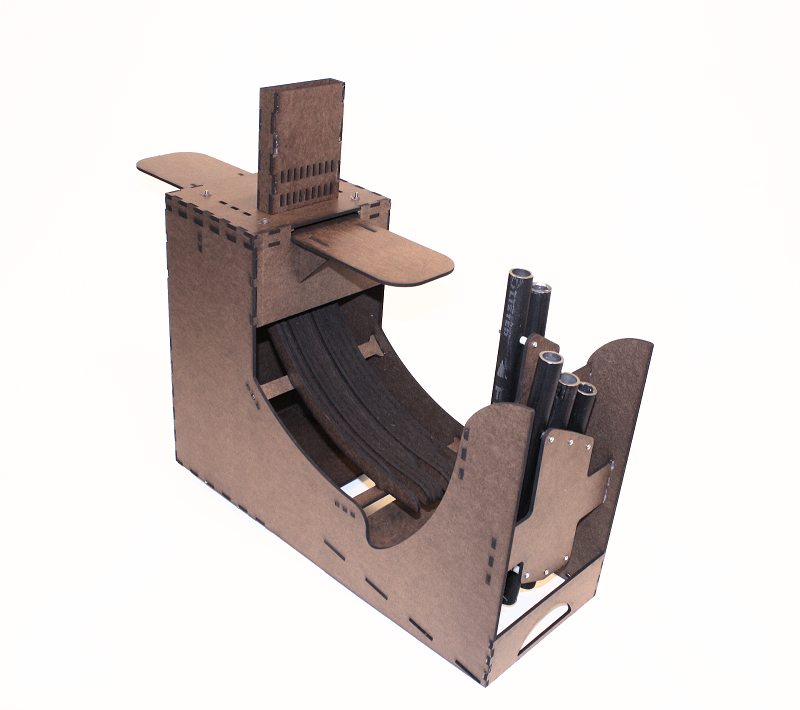
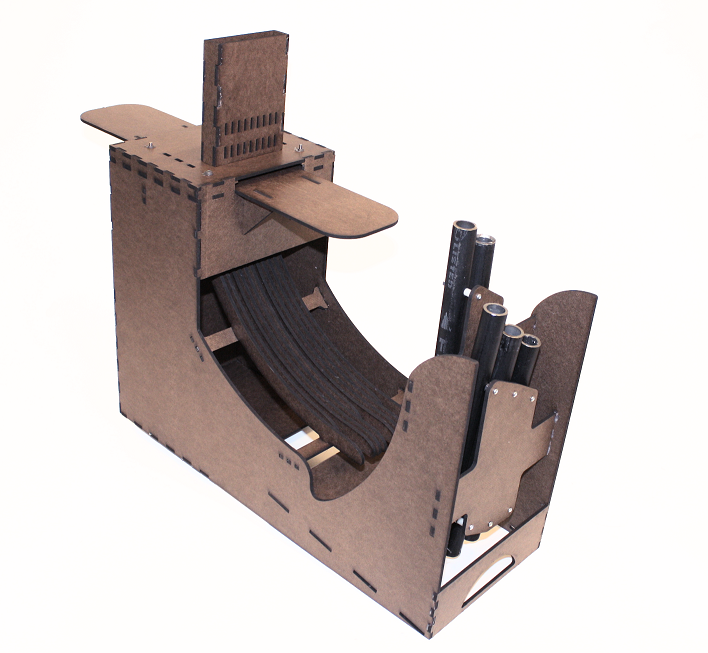
Changed image scaling in sprint 2

Changed region(s): [[0.0932, 0.0306, 0.839, 0.9801], [0.404, 0.5207, 0.435, 0.5513]]

diff --git a/sprint2.html b/sprint2.html
@@ -41,7 +41,7 @@ After getting a good feel for our system in Sprint 1 we decided to pivot on a ma
 So we decided to pivot. If the notes of the song were stored physically rather than in a computer, we could make our machine faster, more mechanically interesting, and more aesthetically pleasing.
 </p><p>
 Below, you can see our Sprint 2 prototype.<p>
-<img src="images/sprint2.png" alt="A photo of our Sprint 2."/></p>
+<img style="width:50%;" src="images/sprint2.png" alt="A photo of our Sprint 2."/></p>
 <p>
 You’re probably wondering how it plays music. Well if you will refer to the images below, we’ll show you.</p>
 <ol>
